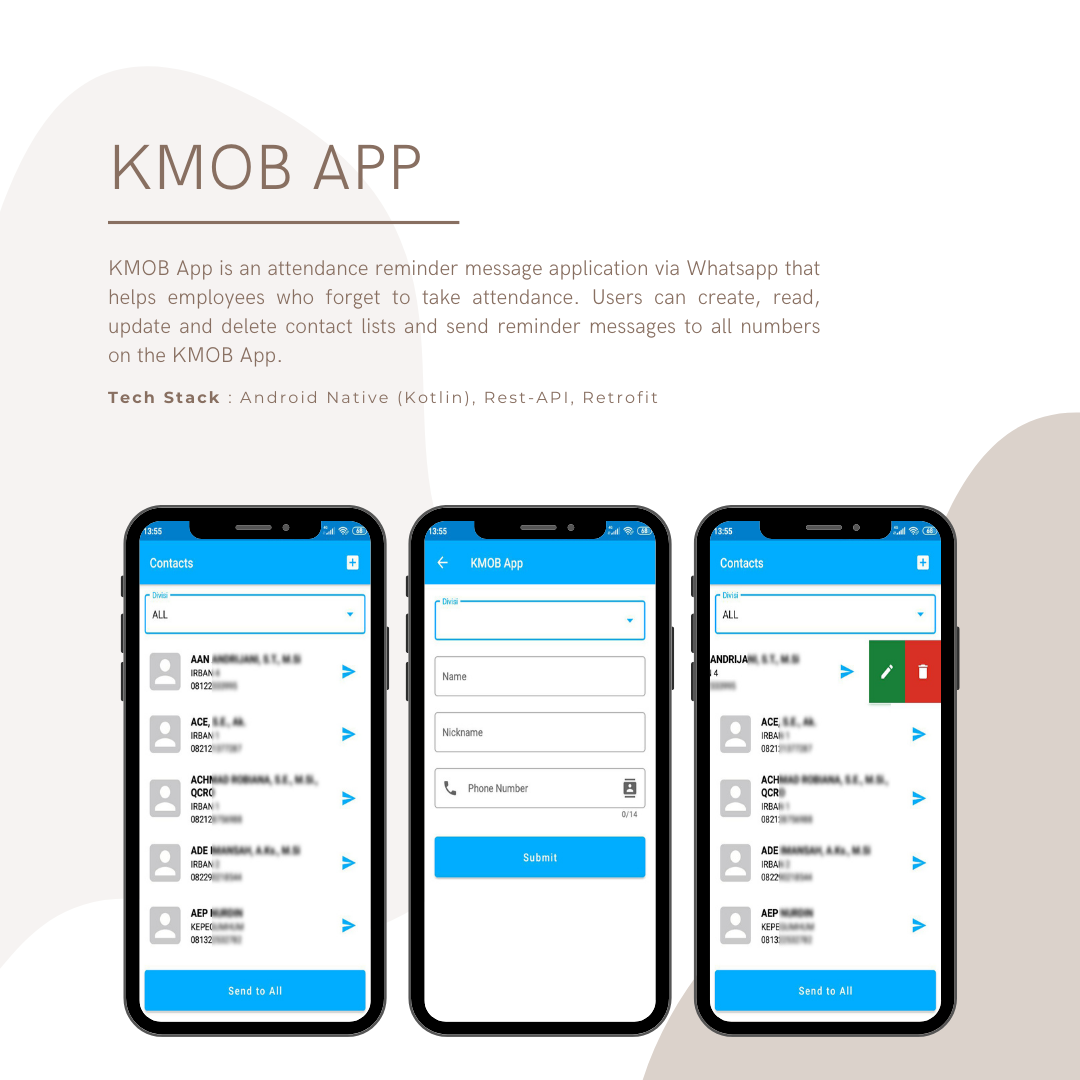
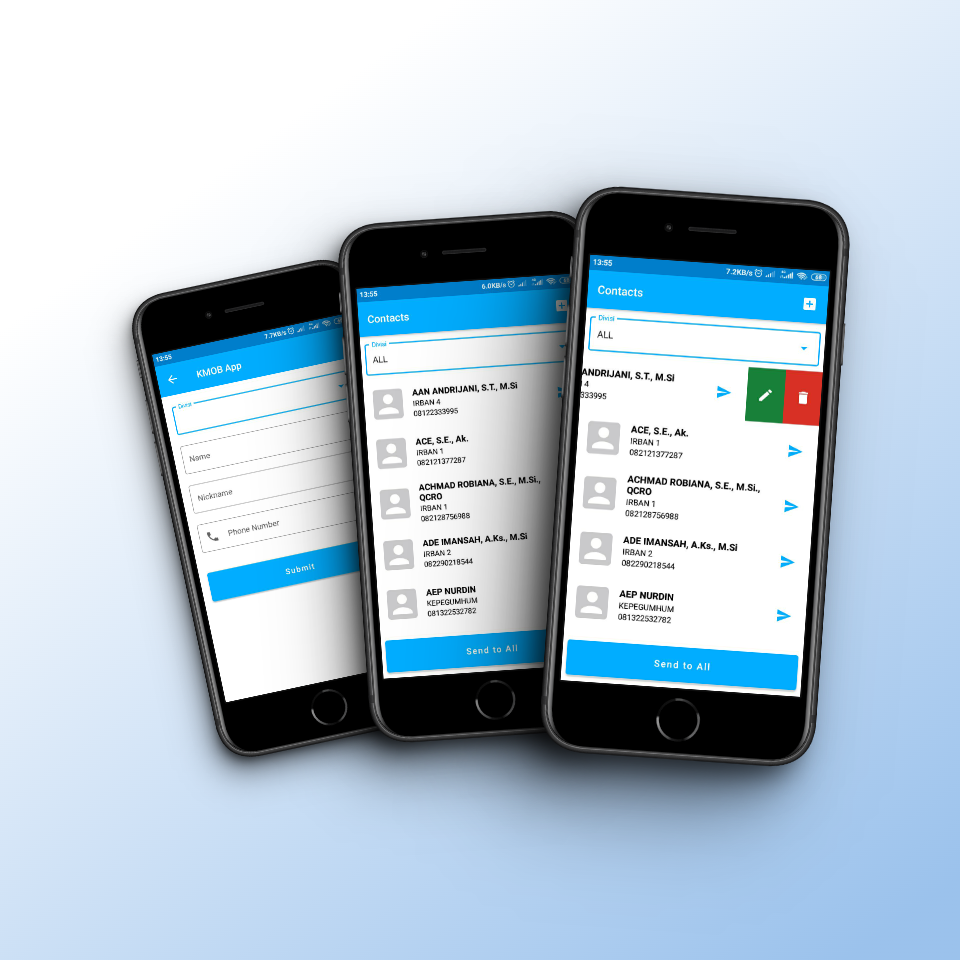
ganti mockup

diff --git a/app/projects/page.tsx b/app/projects/page.tsx
@@ -8,10 +8,12 @@ const ProjectsPage = () => {
     <section className="p-6">
       <h1 className="text-4xl font-black">Projects</h1>
       <div className="mt-4 grid gap-4 md:grid-cols-3">
-        {projectMetadata.map((project) => (
-          <ProjectsItem key={project.slug} {...project} /> //pake spread operator artinya sama dengan yang dibawah
-          // <PostPreview key={post.slug} title={post.title} subtitle={post.subtitle} date={post.date} slug={post.slug} />
-        ))}
+        {projectMetadata
+          .map((project) => (
+            <ProjectsItem key={project.slug} {...project} /> //pake spread operator artinya sama dengan yang dibawah
+            // <PostPreview key={post.slug} title={post.title} subtitle={post.subtitle} date={post.date} slug={post.slug} />
+          ))
+          .sort((a, b) => b.props.year - a.props.year)}
       </div>
     </section>
   );

diff --git a/components/ProjectsPreview.tsx b/components/ProjectsPreview.tsx
@@ -14,10 +14,13 @@ const ProjectsPreview = () => {
         </h1>
       </Link>
       <div className="mt-4 grid gap-4 md:grid-cols-3">
-        {projectMetadata.slice(0, size).map((project) => (
-          <ProjectsItem key={project.slug} {...project} /> //pake spread operator artinya sama dengan yang dibawah
-          // <PostPreview key={post.slug} title={post.title} subtitle={post.subtitle} date={post.date} slug={post.slug} />
-        ))}
+        {projectMetadata
+          .map((project) => (
+            <ProjectsItem key={project.slug} {...project} /> //pake spread operator artinya sama dengan yang dibawah
+            // <PostPreview key={post.slug} title={post.title} subtitle={post.subtitle} date={post.date} slug={post.slug} />
+          ))
+          .sort((a, b) => b.props.year - a.props.year)
+          .slice(0, size)}
       </div>
     </section>
   );

diff --git a/components/Navigation.tsx b/components/Navigation.tsx
@@ -75,16 +75,20 @@ const Navigation = () => {
             </Link>
           ))}
         </nav>
-        <button className="z-10 order-last md:hidden" onClick={handleOnClick}>
+        <button
+          aria-label="mobile-menu"
+          className="z-10 order-last md:hidden"
+          onClick={handleOnClick}
+        >
           {navigation ? <FiX size={24} /> : <FiMenu size={24} />}
         </button>
 
         {theme === "dark" ? (
-          <button onClick={() => setTheme("light")}>
+          <button aria-label="light" onClick={() => setTheme("light")}>
             <FiSun size={24} />
           </button>
         ) : (
-          <button onClick={() => setTheme("dark")}>
+          <button aria-label="dark" onClick={() => setTheme("dark")}>
             <FiMoon size={24} />
           </button>
         )}

diff --git a/components/Footer.tsx b/components/Footer.tsx
@@ -6,6 +6,7 @@ const Footer = () => {
     <section className="container mx-auto mb-4 flex max-w-screen-lg select-none items-center justify-center space-x-4 p-6">
       <Link
         className="hover:text-[#CBA65F]"
+        aria-label="linkedin"
         target="_blank"
         href={"https://www.linkedin.com/in/henhenmuldani/"}
       >
@@ -14,6 +15,7 @@ const Footer = () => {
 
       <Link
         className="hover:text-[#CBA65F]"
+        aria-label="github"
         target="_blank"
         href={"https://github.com/henhenmuldani"}
       >
@@ -30,6 +32,7 @@ const Footer = () => {
 
       <Link
         className="hover:text-[#CBA65F]"
+        aria-label="instagram"
         target="_blank"
         href={"https://www.instagram.com/henhenmuldani/"}
       >

diff --git a/components/ProjectsItem.tsx b/components/ProjectsItem.tsx
@@ -10,7 +10,7 @@ import {
   //CardFooter,
   CardTitle,
 } from "@/components/ui/card";
-// import { Badge } from "@/components/ui/badge";
+//* import { Badge } from "@/components/ui/badge";
 
 const ProjectsItem = (props: ProjectMetadata) => {
   return (
@@ -20,6 +20,7 @@ const ProjectsItem = (props: ProjectMetadata) => {
         <Image
           className="border border-black dark:border-white"
           src={props.image}
+          key={props.slug}
           alt={props.title}
           width={250}
           height={250}

diff --git a/posts/projects/githubUser.md b/posts/projects/githubUser.md
@@ -1,0 +1,24 @@
+---
+title: "Github User App"
+techStacks: "Android Native, Rest-API, Retrofit"
+year: "2020"
+image: "/images/projects/mobile/userGithub/github_hero.png"
+---
+
+<div className="flex items-center justify-center">
+<img src="/images/projects/mobile/userGithub/github_hero.png" width="720" height="720" alt="Github User App" >
+</div>
+
+**Client**: Personal learning project and not a client-based project
+
+**Year**: 2020
+
+**Tech Stacks**: Android Native(Java), Rest-API, Retrofit
+
+## Overview
+
+Github User App is an app that can display a list of Github users and their details. This app is made using Android Native(Java) and uses the Github API to get the data.
+
+## The Problem
+
+This app is made to fulfill the final project of the Dicoding Academy "Belajar Fundamental Aplikasi Android" course. The problem is that I have to make an app that can get data from the API and display it in the app.

diff --git a/posts/projects/movieCatalogue.md b/posts/projects/movieCatalogue.md
@@ -5,7 +5,9 @@ year: "2021"
 image: "/images/projects/mobile/movieCatalogue/movie_hero.png"
 ---
 
-![Movie Catalogue App](/images/projects/mobile/movieCatalogue/movie_hero.png)
+<div className="flex items-center justify-center">
+<img src="/images/projects/mobile/movieCatalogue/movie_hero.png" width="720" height="720" alt="MovieCatalogue App" >
+</div>
 
 **Client**: Personal learning project and not a client-based project
 

diff --git a/posts/projects/kmob.md b/posts/projects/kmob.md
@@ -5,7 +5,9 @@ year: "2021"
 image: "/images/projects/mobile/kmob/kmob_hero.png"
 ---
 
-![KMOB App](/images/projects/mobile/kmob/kmob_hero.png)
+<div className="flex items-center justify-center">
+<img src="/images/projects/mobile/kmob/kmob_hero.png" width="720" height="720" alt="KMOB App" >
+</div>
 
 **Client**: My friend who works at Inspektorat Jabar
 
